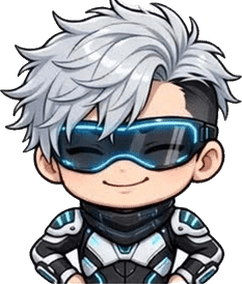
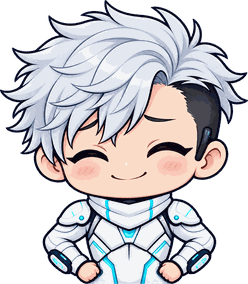
Đồng bộ vũ trụ diem10code: tên thầy cô, lớp trưởng, tên miền, mặt Sola
- Câu hỏi an toàn mạng: Thầy Vĩnh thành Thầy Khải, Cô Diệp GVCN thành
  Cô Hạnh GVCN, người gửi Lớp trưởng 11A2 thành Hà Vy lớp trưởng 11A2.
- Thẻ học sinh Bảo Khuê: Lớp 11A2 thành Lớp 11A1 như bản chuẩn.
- TEN_MIEN thêm ngayhoi.thpthoaphuong.edu.vn và lumo.vn.
- Bốn mặt Sola (celebrate-jump, confident, facepalm, thinking) nền sáng
  và nền tối thay bằng bản không kính.
- DESIGN.md: thêm Mật Lệnh Robot vào danh sách game cùng thế giới, ngày
  Ngày hội 26-27/3/2027, trỏ tới ../VU-TRU-DIEM10CODE.html, ghi lumo.vn.

diff --git a/DESIGN.md b/DESIGN.md
@@ -1,6 +1,8 @@
 # Thiết kế Đố Vui Ngày Hội (tên tạm, chưa chốt)
 
-Game đố vui nhìn nhanh của chuỗi diem10code. Cùng thế giới với Mạch Đèn, Sổ Ngày Hội, Gương Mặt Ngày Hội, Trạm Web Ngày Hội: THPT Hoa Phượng, CLB Tin học, Ngày hội Tin học. Game này chính là gian **đố vui an toàn mạng** trong năm phần thi của Ngày hội.
+Game đố vui nhìn nhanh của chuỗi diem10code. Cùng thế giới với Mạch Đèn, Sổ Ngày Hội, Gương Mặt Ngày Hội, Trạm Web Ngày Hội, Mật Lệnh Robot: THPT Hoa Phượng, CLB Tin học, Ngày hội Tin học 26-27/3/2027. Game này chính là gian **đố vui an toàn mạng** trong năm phần thi của Ngày hội.
+
+Tên trường, nhân vật, tên miền và logo chốt ở [../VU-TRU-DIEM10CODE.html](../VU-TRU-DIEM10CODE.html). Sửa ở đây mà vênh với bản đó thì theo bản đó.
 
 Đã có bản chơi thử: 3 mùa, 12 gói, 108 câu, thêm chế độ Ôn bẫy cho câu đã chọn nhầm. Xem mục Bản chơi thử ở cuối.
 
@@ -82,7 +84,7 @@ Câu hỏi đổi chiều để không học vẹt: lúc hỏi "bản nào thậ
 
 ## Thương hiệu trong câu hỏi
 
-Dùng thương hiệu hư cấu của thế giới Hoa Phượng (Ngân hàng Hồng Lĩnh `honglinhbank.vn`, ví điện tử Tomo, nền tảng học Edumo, giao hàng Kiến Vàng Express, mạng xã hội Lumo), không dùng tên ngân hàng hay ứng dụng có thật. Thủ đoạn thì lấy đúng như ngoài đời. Như vậy không mượn nhận diện của ai, còn kỹ năng mang ra đời thật vẫn dùng được.
+Dùng thương hiệu hư cấu của thế giới Hoa Phượng (Ngân hàng Hồng Lĩnh `honglinhbank.vn`, ví điện tử Tomo, nền tảng học Edumo, giao hàng Kiến Vàng Express, mạng xã hội Lumo `lumo.vn`), không dùng tên ngân hàng hay ứng dụng có thật. Thủ đoạn thì lấy đúng như ngoài đời. Như vậy không mượn nhận diện của ai, còn kỹ năng mang ra đời thật vẫn dùng được.
 
 ## Kỹ thuật: bản giả là bản thật cộng một chỗ vá
 
